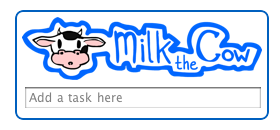
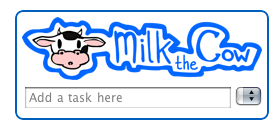
Skim 0.2.1
hide drop-down menu before auth
fix problem with auth in skim

Changed region(s): [[0.8, 0.6462, 0.9429, 0.8308]]

diff --git a/Milk the Cow Skim.wdgt/milkthecow.js b/Milk the Cow Skim.wdgt/milkthecow.js
@@ -5,7 +5,7 @@
 //
 //This product uses the Remember The Milk API but is not endorsed or certified by Remember The Milk.
 
-var version = "0.2.0";
+var version = "0.2.1";
 var api_key = "127d19adab1a7b6922d8dfda3ef09645";
 var shared_secret = "503816890a685753";
 //var debug = true;
@@ -156,8 +156,9 @@ function rtmCall (data) {
 	if (typeof(timeline) != "undefined") data.timeline = timeline;
 	rtmSign(data);
 
-	var json = eval("("+$.ajax({url: methurl,data: data}).responseText+")");
-	return json;
+	var r = $.ajax({url: methurl,data: data,dataType:"json"}).responseText;
+	log(r);
+	return eval("("+r+")");
 }
 
 //same as rtmCall but asynchronously and calls callback when it's done
@@ -194,11 +195,26 @@ function rtmSign (args) {
 	args.api_sig = sig;
 }
 
+//check if we already have a frob
+function checkHaveFrob () {
+	if (!window.widget) return false;
+	return (widget.preferenceForKey("frob") != "undefined" && typeof(widget.preferenceForKey("frob")) != "undefined");
+}
+
 //get frob (required for auth)
 function rtmGetFrob () {
+	if(checkHaveFrob()) {
+		log("using existing frob: " + String(widget.preferenceForKey("frob")));
+		return widget.preferenceForKey("frob");
+	}
+	
+	//ask for a new frob
 	var res = rtmCall({method:"rtm.auth.getFrob"});
 	//log("frob: "+res.rsp.frob);
-	if(res.rsp.stat == "ok") return res.rsp.frob;
+	if(res.rsp.stat == "ok"){
+		if(window.widget) widget.setPreferenceForKey(res.rsp.frob, "frob");
+		return res.rsp.frob;
+	}
 	return "fail"; //fail to get frob
 }
 
@@ -280,6 +296,9 @@ function checkToken (){
 	if (window.widget){
 		if (typeof(widget.preferenceForKey("token"))=="undefined") return getAuthToken();
 		token = widget.preferenceForKey("token");
+		user_id = widget.preferenceForKey("user_id");
+		user_username = widget.preferenceForKey("user_username");
+		user_fullname = widget.preferenceForKey("user_fullname");
 		timeline = widget.preferenceForKey("timeline");
 	}
 	var auth = rtmCall({method:"rtm.auth.checkToken"}).rsp;
@@ -320,7 +339,6 @@ function getLists (){
 			for (var l in lists){
 				$("#taskinput_list").append("<option value='"+lists[l].id+"'>"+lists[l].name+"</option>");
 			}
-			log(defaultlist);
 			$("#taskinput_list").val(defaultlist);
 		}
 	});
@@ -372,6 +390,7 @@ function refresh (){
     //show auth link
 		$("#authDiv").show();
 		$("#taskinput").hide();
+		$("#taskinput_list").hide();
 		if (window.widget) $("#authDiv").html("<span id=\"authurl\" onclick=\"widget.openURL('"+rtmAuthURL("delete")+"')\">Click Here</span> to authentication.");
 		else $("#authDiv").html("<a id=\"authurl\" target=\"_blank\" href=\""+rtmAuthURL("delete")+"\">Click Here</a> to authentication.");
 	}else{
@@ -379,6 +398,7 @@ function refresh (){
 		if (lists.length == 0) getLists(); //no list yet
 		$("#authDiv").hide();
 		$("#taskinput").show();
+		$("#taskinput_list").show();
 	}
 }
 
